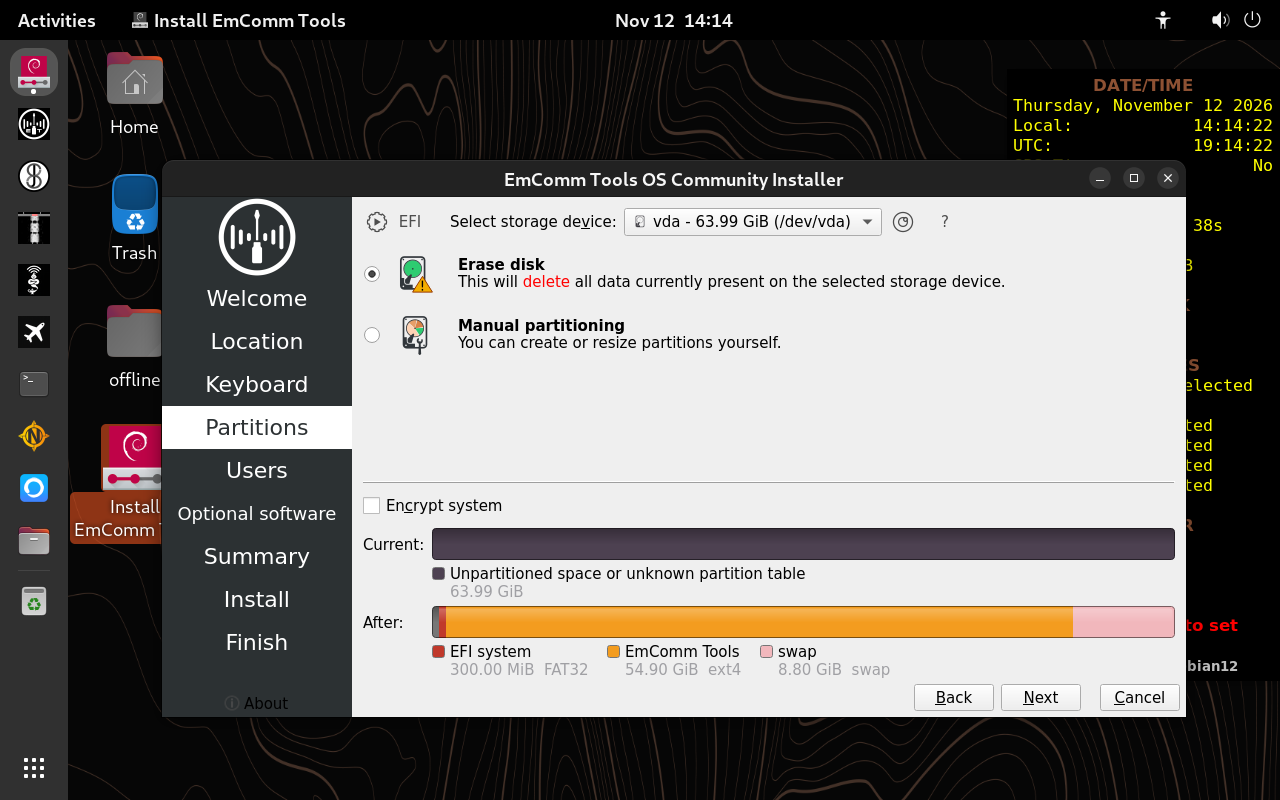
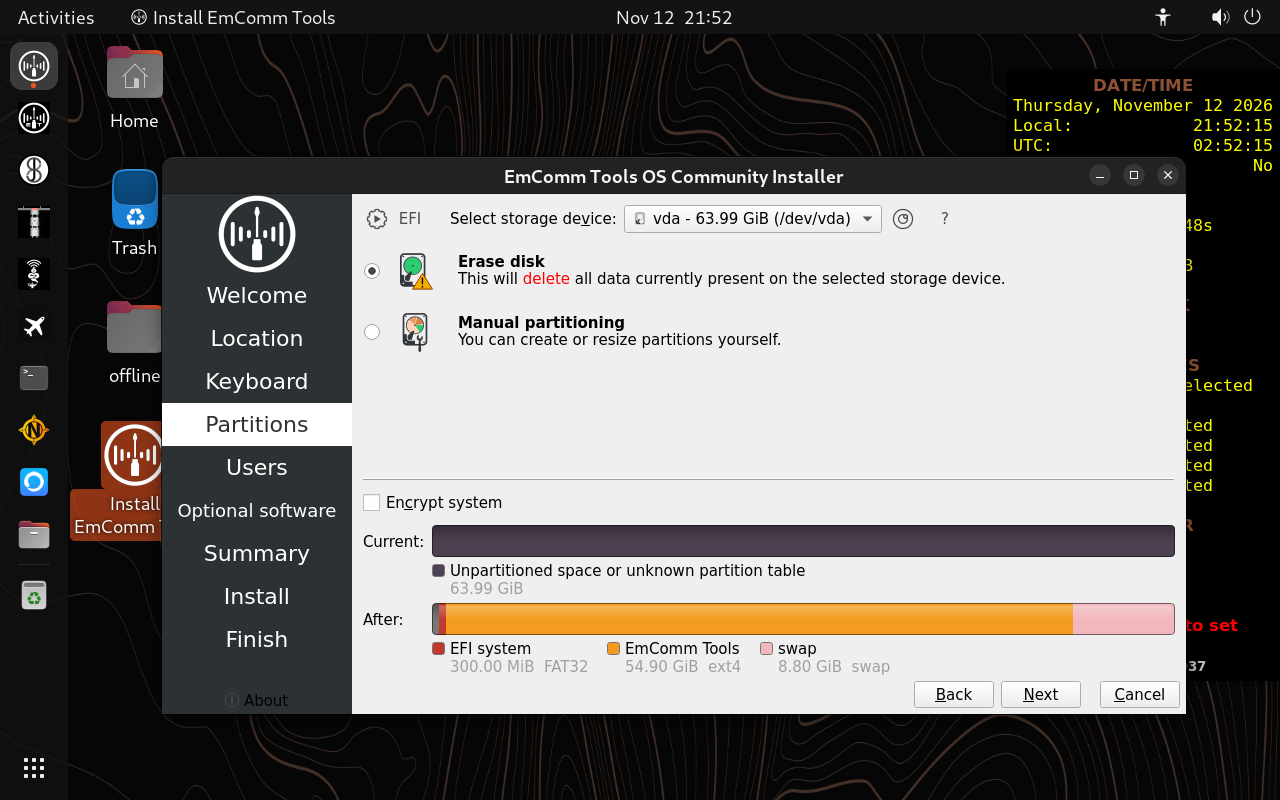
debian - Closer to r7: installer removed after install; Yaru top bar; cleanups
- Installer removes itself (calamares) and its live-only files from the
  installed system, as r7's Ubiquity did.
- scripts/install.sh not executable in the ISO's repository copy.
- Non-ISO install paths removed: configure-existing-user.sh, the
  interactive encryption install, ET_CRYPTO; configure-user.sh back to r7.
- Encryption tools: one script copy (repository copy), payload in
  /opt/emcomm-tools/add-ons/crypto.
- Yaru shell theme (top bar), as in r7; live installer launcher with ETC's
  logo; chrony uses Debian's NTP pool.
- VARA README and wine.txt: Cubic steps replaced by restoring a backup.
- Install guide screenshots retaken; docs and Verified updated.

diff --git a/CHANGES-OVERVIEW.md b/CHANGES-OVERVIEW.md
@@ -60,7 +60,7 @@ asks none, so each is handled differently now:
 | Wikipedia file (`ET_EXPERT`) | `download-wikipedia.sh` | No `.zim` files ship with the ISO; the Kiwix reader is installed. **Decision needed:** how users add `.zim` files after install, for example copying them in, or running `download-wikipedia.sh` (needs internet; it saves into `/etc/skel`) |
 | VARA/WINE notes (`ET_EXPERT`) | `install-wine.sh`, `wine.txt` | WINE, winetricks and the VARA add-on scripts (`~/add-ons/wine`) are in the ISO; VARA itself isn't. Users install it after install, with internet or by restoring a WINE backup made with `05-backup-wine-install.sh` (`cd ~ && tar -xzf etc-wine-backup-*.tar.gz`). `~/add-ons/wine/README.md` covers both |
 | xara modem | `install-xara.sh`, `scripts/xara.md` | Built in r7 only when the builder supplies the source tarball; not in this ISO (Rust is). **For the ETC developer to review:** suggested post-install scripting, so users build xara from their own source with `install-xara.sh` |
-| Encryption tools | `install-crypto.sh` | Installed without asking in r7 (GPA, PFTE, steghide, guides; gpg stays in the base install as in r7). Now asked by the installer's **Optional software** page (**Skip encryption tools** or **Install encryption tools**); not selected by default. The page (and `install.sh`'s prompt) says not to install them where encryption is illegal. VeraCrypt stays out, as in r7 (its install line is commented out there) |
+| Encryption tools | `install-crypto.sh` | Installed without asking in r7 (GPA, PFTE, steghide, guides; gpg stays in the base install as in r7). Now asked by the installer's **Optional software** page (**Skip encryption tools** or **Install encryption tools**); not selected by default. The page says not to install them where encryption is illegal. VeraCrypt stays out, as in r7 (its install line is commented out there) |
 
 ## Version parity with r7
 
@@ -99,8 +99,8 @@ Debian 12 install. To watch in hardware testing: VARA under WINE 8.0.
 ## Size/Scope of this migration
 
 Branch `feature/debian-live-iso` against `release/r7` at build37
-(`emcomm-tools-os-community-20261111-r7-build37`, merged in): **96 files,
-+1,741 / −330 lines** (not counting this document).
+(`emcomm-tools-os-community-20261111-r7-build37`, merged in): **99 files,
++1,644 / −380 lines** (not counting this document).
 
 It's less than it looks:
 
@@ -117,13 +117,13 @@ It's less than it looks:
 | # | Category | Files | Lines +/− | Why |
 |---|---|---|---|---|
 | 1 | Installer: Ubiquity → Calamares | 24 | +190 / −209 | Ubuntu's installer doesn't exist on Debian. The 8 slideshow images only moved. The 9 Ubiquity HTML slides were deleted, and the same 8 slides were ported to a Calamares `show.qml` and one shared slide layout, `EtcSlide.qml` (110 lines). |
-| 2 | Docs | 20 | +310 | Release notes; developer build guide; end-user install guide. |
-| 3 | New ISO build (live-build) | 17 | +716 | Replaces Cubic. All new files; nothing existing changed. |
-| 4 | Debian package and OS differences | 15 | +100 / −72 | A small edit in each script that named an Ubuntu package, version or URL. |
-| 5 | Encryption tools opt-in | 10 | +203 / −14 | Distribution requirement, not Debian's. `install-crypto.sh` is most of it. The guide files (`gpg-cheatsheet.md`, `steghide.md`, `steghide.jpg`) were moved unchanged, so only users who choose the tools get them. |
-| 6 | Desktop parity with r7 | 6 | +77 / −20 | Ubuntu builds in its dock, theme and tray icons; Debian needs them added. GNOME Software's update checks are off, as r7 removed Ubuntu's update notifier; apt's daily timers stay on, as in r7. |
-| 7 | Users | 2 | +92 | Users created by the installer get ETC's `et-data` group as primary. |
-| 8 | Build mode | 2 | +53 / −15 | `install.sh` asks nothing during the image build. |
+| 2 | Docs | 20 | +315 | Release notes; developer build guide; end-user install guide. |
+| 3 | New ISO build (live-build) | 19 | +756 | Replaces Cubic. All new files; nothing existing changed. |
+| 4 | Debian package and OS differences | 17 | +117 / −124 | A small edit in each script that named an Ubuntu package, version or URL. |
+| 5 | Encryption tools opt-in | 10 | +125 / −14 | Distribution requirement, not Debian's. `install-crypto.sh` is most of it. The guide files (`gpg-cheatsheet.md`, `steghide.md`, `steghide.jpg`) were moved unchanged, so only users who choose the tools get them. |
+| 6 | Desktop parity with r7 | 6 | +81 / −20 | Ubuntu builds in its dock, theme and tray icons; Debian needs them added. GNOME Software's update checks are off, as r7 removed Ubuntu's update notifier; apt's daily timers stay on, as in r7. |
+| 7 | Users | 1 | +29 | Users created by the installer get ETC's `et-data` group as primary. |
+| 8 | Build mode | 2 | +31 / −13 | `install.sh` asks nothing during the image build. |
 
 ## Beyond the minimum
 
@@ -133,15 +133,13 @@ migration, at the cost of r7's look and some live-session usability:
 
 | Change | Why it's here | Could drop? |
 |---|---|---|
-| GNOME parity: Yaru theme, dock, desktop icons, tray icons, window buttons | Look and version parity with r7 | Yes, if r7's look isn't required |
+| GNOME parity: Yaru theme (including the top bar), dock, desktop icons, tray icons, window buttons | Look and version parity with r7 | Yes, if r7's look isn't required |
 | Calamares slideshow ported from Ubiquity (`show.qml`, `EtcSlide.qml`) | Branding parity | Yes; Calamares works without it |
 | Installer stylesheet (`stylesheet.qss`): the encryption choices drawn as buttons | Encryption is legally restricted in some jurisdictions, so installing the tools must be a clear, deliberate choice | Yes; the page works without it |
 | GRUB menus branded: ETC background on the live ISO's boot menu; "EmComm Tools" and the same background on installed systems | Branding parity | Yes; the stock Debian menus work |
 | ETC boot splash watermark: Debian's logo diverted (Debian's plymouth puts its own in) | Branding parity | Yes; Debian's logo shows instead |
-| Live-session polish: installer icon shown correctly, installer starts without a password, ETC dock in the live session, callsign/grid/Winlink password saved in the live session carried into the installed system | Usability of the live session | Yes; the ISO works without them |
+| Live-session polish: installer launcher with ETC's name and logo, shown correctly, installer starts without a password, ETC dock in the live session, callsign/grid/Winlink password saved in the live session carried into the installed system | Usability of the live session | Yes; the ISO works without them |
 | `et-fix-primary-group` (installer step) | ETC shares files through the `et-data` group, and Calamares can't set a primary group | Only by changing ETC's group design |
-| `configure-existing-user.sh` | Only for running `install.sh` on an existing Debian system; the ISO doesn't use it | Yes, if only the ISO is supported |
-| `configure-user.sh` doesn't fail if `et-data` exists | Lets `install.sh` run twice on the same system | Yes; the ISO build runs it once |
 | GNOME Software update checks off: its settings and login service | r7 removed Ubuntu's update-notifier | No (requested) |
 | `build.sh` keeps live-build's download cache | Faster rebuilds | Yes |
 | `tests/validate-install.sh` | One command to check an installed system or the live session before publishing; caught real problems in testing | Yes; the build guide's checklist and r7's `run-test-suite.sh` remain |
@@ -162,12 +160,15 @@ were on real hardware:
 | UEFI, Secure Boot on: install with encryption tools | Tools and guides installed from the ISO |
 | UEFI, Secure Boot on: install without encryption tools | No tools, guides or marker; add-on still available |
 | UEFI, Secure Boot on: installed system | Boots; GRUB menu shows "EmComm Tools GNU/Linux" with the ETC background; ETC splash, dock, wallpaper; `et-data` primary group; SSH server running; apt sources include `contrib` and `non-free`; update checks off; ETC test suite passes except xara (no source package) |
-| BIOS (no UEFI): live boot and install | Boots and installs; BIOS GRUB installed from the ISO (tested before GRUB branding was added) |
+| BIOS (no UEFI): live boot and install | Boots and installs; BIOS GRUB installed from the ISO; re-tested after GRUB branding was added |
 | UEFI, Secure Boot on: live settings carry-over | Callsign and grid saved in the live session are in the installed user's `user.json`, with the `first-login-complete` marker, owned by the new user; setup doesn't open at first login. Passed in the ISO built from 180a991. The same ISO failed the **Cancel** case: Cancel also writes the marker, so the default settings were copied and setup didn't open. Fixed by also checking that `user.json` differs from the `/etc/skel` default; the check passed on the installed system, the fix is in the ISO built from 22beb66 |
 | UEFI, Secure Boot on: install after the audit fixes, encryption tools selected | `validate-install.sh`: 94 passed, 0 failed (warnings: setup not yet run, installer left installed). Release name `ETC_R7_BUILD37` in `/etc/lsb-release` and the conky panel; GPA, PFTE and steghide installed, no VeraCrypt; gpg present (base install, as in r7); apt's daily timers on; one read-only repository copy; slideshow (`EtcSlide.qml`) shows and advances |
+| UEFI, Secure Boot on: install of the final build (encryption tools selected) | Installer removed afterwards (no `calamares`, no `/etc/calamares`, no live helpers); `scripts/install.sh` in the repository copy not executable; encryption tools installed from the repository copy; chrony uses Debian's pool; live launcher shows ETC's logo; Yaru top bar |
 | Ventoy 1.1.10, UEFI, Secure Boot off | ISO boots from a Ventoy stick to the ETC boot menu and live desktop |
 | Laptop, live session (ISO from 4353008, UEFI, Secure Boot off), GPS, DigiRig Mobile and SDR connected | `validate-install.sh`: 92 passed, 0 failed. et-api starts once with no restart; et-predict and et-aircraft work without restarting it; aircraft received by the SDR are identified from et-api's FAA data (US-registered; others, such as Canadian, have no entry). The et-api hang was reproduced on an earlier ISO, before the NWS file was included. Repeated with the ISO after the audit fixes (18fa448): 90 passed, 0 failed, release `ETC_R7_BUILD37` |
 | Laptop, installed from the ISO after the audit fixes (UEFI, Secure Boot off), encryption tools selected, GPS connected | `validate-install.sh`: 96 passed, 0 failed (warning: installer left installed). Callsign and grid saved in the live session carried over, setup didn't open; et-api started once at first login with the GPS (no restart); GPA, PFTE, steghide installed, no VeraCrypt; GRUB menu shows "EmComm Tools GNU/Linux" with the ETC background; SSH host keys, apt `contrib`/`non-free` |
+| Laptop, installed system, on the air | CAT control and `et-mode`, JS8Call, WSJT-X, Reticulum blueprints and MeshChat, with the DigiRig |
+| Laptop, offline installs | Several installs with the network off, enabled only afterwards |
 | Laptop, live session, DigiRig Lite | JS8Call, WSJT-X and Winlink over ARDOP use the DigiRig for audio input and output |
 
 ## Files in each category
@@ -197,18 +198,20 @@ were on real hardware:
 | File | Purpose |
 |---|---|
 | `live-build/build.sh` | The one build command |
-| `live-build/config/hooks/normal/0900-emcomm-tools.hook.chroot` | Runs `install.sh` inside the image (before Debian's cleanup hooks); adds et-api's NWS forecast zone data file; keeps a read-only repository copy in `/opt/emcomm-tools-os-community`; removes build files; ETC launchers in the live dock |
+| `live-build/config/hooks/normal/0900-emcomm-tools.hook.chroot` | Runs `install.sh` inside the image (before Debian's cleanup hooks); adds et-api's NWS forecast zone data file; keeps a read-only repository copy in `/opt/emcomm-tools-os-community`; removes build files; the live installer launcher's ETC name and logo; ETC launchers in the live dock; `install.sh` in that copy is not executable, to avoid an accidental reinstall |
 | `live-build/config/hooks/normal/0910-grub-pc-pool.hook.binary` | Adds BIOS GRUB to the ISO's package pool (it conflicts with UEFI GRUB, so it can't go in the package list) |
 | `tests/validate-install.sh` | New: checks an installed system (or the live session) and runs ETC's app tests; PASS/FAIL/WARN/SKIP summary |
 | `live-build/config/package-lists/emcomm-tools.list.chroot` | GNOME and Calamares in the image |
 | `live-build/config/package-lists/installer.list.binary` | GRUB packages carried in the ISO, so installs work offline |
-| `live-build/config/includes.chroot/etc/calamares/settings.conf` | Installer steps (Debian's, plus ETC's five) |
+| `live-build/config/includes.chroot/etc/calamares/settings.conf` | Installer steps (Debian's, plus ETC's six) |
+| `live-build/config/includes.chroot/etc/calamares/modules/packages.conf` | Debian's list of packages the installer removes from the new system, plus `calamares` itself, so "Install System" doesn't stay, as r7's installer removed itself |
 | `live-build/config/includes.chroot/etc/calamares/modules/users.conf` | Groups for new users |
 | `live-build/config/includes.chroot/etc/calamares/modules/packagechooser-crypto.conf` | Optional software page: **Skip encryption tools** (default) or **Install encryption tools** |
 | `live-build/config/includes.chroot/etc/calamares/modules/contextualprocess-crypto.conf` | Installs the encryption tools offline if selected |
 | `live-build/config/includes.chroot/etc/calamares/modules/shellprocess-etc-setup.conf` | ETC setup: primary group, SSH host keys |
 | `live-build/config/includes.chroot/etc/calamares/modules/shellprocess-etc-live-settings.conf` | Carries the callsign, grid and Winlink password saved in the live session to the new user |
 | `live-build/config/includes.chroot/etc/calamares/modules/shellprocess-etc-sources.conf` | apt sources: Debian's installer drops `contrib` and `non-free`; this puts them back |
+| `live-build/config/includes.chroot/etc/calamares/modules/shellprocess-etc-cleanup.conf` | Last step: removes `/etc/calamares` and ETC's live-session helpers from the new system |
 | `live-build/config/includes.chroot/usr/local/sbin/et-carry-live-settings` | Copies the callsign, grid and Winlink password saved in the live session to the new user |
 | `live-build/config/includes.chroot/usr/local/bin/et-trust-live-installer` | Live session: marks the installer icon as trusted on GNOME |
 | `live-build/config/includes.chroot/etc/xdg/autostart/et-trust-live-installer.desktop` | Live session: runs `et-trust-live-installer` at login |
@@ -227,16 +230,17 @@ were on real hardware:
 | `scripts/install-js8call.sh`, `install-wsjtx.sh` | Hold ETC's builds; Debian's newer-looking `js8call` would replace them and conflict with ETC's WSJT-X |
 | `scripts/remove-packages.sh` | Also purges Firefox ESR (r7 had no Firefox) and GNOME's first-login wizard; keeps GNOME (on Debian, purging LibreOffice would remove it) |
 | `scripts/install-dev-tools.sh` | Cubic PPA removed |
+| `overlay/etc/chrony/chrony.conf` | NTP servers: Debian's pool (`2.debian.pool.ntp.org`, Debian 12's default) instead of Ubuntu's; ETC's GPS time source unchanged |
+| `scripts/wine.txt`, `overlay/etc/skel/add-ons/wine/README.md` | Cubic steps for baking a WINE backup into the image replaced by restoring it in the home folder after install (ISOs don't include WINE installations) |
 | `scripts/install-ubuntu-image-tools-only.sh` | Deleted (Cubic tooling) |
 | `scripts/install-release.sh` | New: writes the release name to `/etc/lsb-release` as `DISTRIB_DESCRIPTION`, where Cubic put it in r7, so r7's `et-system-info` reads it unchanged. Name like r7's: `ETC_R7_BUILD37`, from the last ETC tag |
-| `scripts/configure-user.sh` | Don't fail if `et-data` already exists |
 | `tests/test-java.sh`, `test-python.sh` | Expect Java 17 and Python 3 |
 
 ### 5. Encryption tools opt-in
 
 | File | Change |
 |---|---|
-| `scripts/install-crypto.sh` | New: installs GPA, PFTE, steghide and guides; or prepares them for the installer and installs them offline |
+| `scripts/install-crypto.sh` | New: prepares GPA, PFTE, steghide and the guides during the image build, and installs them offline when selected in the installer (or later by hand) |
 | `scripts/crypto-docs/gpg-cheatsheet.md`, `steghide.md`, `steghide.jpg` | Moved unchanged from `overlay/etc/skel/Desktop/offline/crypto/` (which every user got), so they're only installed with the tools |
 | `scripts/install-offline-lib-crypto.json`, `install-offline-lib.json` | AmRRON key and GPG guide moved to the crypto list |
 | `scripts/install-offline-lib.sh` | Takes a file list and destination |
@@ -247,7 +251,7 @@ were on real hardware:
 
 | File | Change |
 |---|---|
-| `overlay/usr/share/glib-2.0/schemas/90_emcomm-tools.gschema.override` | Renamed from `90_ubuntu-settings` and edited: dock, extensions, window buttons, dark-style wallpaper; GNOME Software's update checks off |
+| `overlay/usr/share/glib-2.0/schemas/90_emcomm-tools.gschema.override` | Renamed from `90_ubuntu-settings` and edited: dock, extensions, Yaru shell theme (top bar, as Ubuntu's session has built in), window buttons, dark-style wallpaper; GNOME Software's update checks off |
 | `scripts/configure-gnome.sh` | Install Yaru theme and the dock, desktop-icon and tray-icon extensions |
 | `scripts/install-branding.sh` | Boot splash and wallpaper on Debian; ETC watermark instead of Debian's logo (Debian's plymouth swaps it in); GRUB menu name and background |
 | `logos/emcomm-tools-boot-800x600.png`, `-640x480.png` | New: GRUB menu background for the live ISO (via `live-build/build.sh`) and installed systems |
@@ -258,11 +262,10 @@ were on real hardware:
 | File | Change |
 |---|---|
 | `overlay/opt/emcomm-tools/bin/et-fix-primary-group` | New: `et-data` as primary group for users the installer creates |
-| `scripts/configure-existing-user.sh` | New: when `install.sh` runs on an existing Debian system (not the ISO), makes `et-data` the user's primary group, replaces their `.bashrc`, `.bash_profile` and `.inputrc` (backed up as `*.pre-emcomm-tools`) and gives their home folder the `et-data` group |
 
 ### 8. Build mode
 
 | File | Change |
 |---|---|
-| `scripts/install.sh` | `ET_BUILD=1`: no prompts; only the world map; encryption tools prepared, not asked. Also: runs `install-release.sh`; GPA and PFTE moved into the encryption add-on; `ET_CRYPTO=yes\|no` answers the encryption prompt (skipped with no terminal); outside the ISO, runs `configure-existing-user.sh` last |
+| `scripts/install.sh` | `ET_BUILD=1`: no prompts; only the world map. Also: runs `install-release.sh`; GPA and PFTE moved into the encryption tools, which are prepared for the installer instead of installed |
 | `scripts/download-et-maps.sh` | Country can be passed instead of asked |

diff --git a/ISO-BUILD-PLAN.md b/ISO-BUILD-PLAN.md
@@ -71,11 +71,11 @@ it asks which file to download, and the build runs without prompts.
 |---|---|
 | Debian 12, GNOME, EmComm Tools | Installed |
 | Maps | The global map (80 MB). How users add other maps after install is still to be decided (see [CHANGES-OVERVIEW.md](CHANGES-OVERVIEW.md)) |
-| Encryption tools (GPA, PFTE, steghide, guides) | Carried, not installed. The person installing chooses them on the installer's **Optional software** page (not selected by default); they install from the ISO, no internet needed. They can also be added later from `/opt/emcomm-tools/add-ons/crypto` |
+| Encryption tools (GPA, PFTE, steghide, guides) | Carried, not installed. The person installing chooses them on the installer's **Optional software** page (not selected by default); they install from the ISO, no internet needed. They can also be added later, offline: `sudo /opt/emcomm-tools-os-community/scripts/install-crypto.sh --offline` |
 | GRUB for UEFI and BIOS | Carried, so installs work offline |
 | xara modem | Not included (its source was withdrawn; a `xara-*.tar.gz` in `scripts/` isn't copied). Rust is installed. How users add xara after install is still to be decided (see [CHANGES-OVERVIEW.md](CHANGES-OVERVIEW.md)) |
 | Live session login | Debian's defaults: user `user`, password `live`. Only in the live session; installed systems have only the account created in the installer |
-| This repository | A read-only copy in `/opt/emcomm-tools-os-community` (about 12 MB, no git history): ETC's scripts and test suite, matching the ISO |
+| This repository | A read-only copy in `/opt/emcomm-tools-os-community` (about 12 MB, no git history): ETC's scripts and test suite, matching the ISO. `scripts/install.sh` there isn't executable, so it isn't run over an installed system by accident (`sudo bash install.sh` runs it on purpose) |
 | Accounts, home folders, SSH host keys, machine-id, logs, build files | None. Each installed system gets its own SSH host keys and machine-id |
 
 ## How the build works
@@ -104,8 +104,9 @@ The installer settings are in
 `live-build/config/includes.chroot/etc/calamares/`: Debian's settings with
 ETC's branding, the Optional software page, and ETC steps that give new users
 `et-data` as primary group, create SSH host keys, carry over the callsign and
-grid saved in the live session, and restore `contrib`/`non-free` in apt
-sources.
+grid saved in the live session, restore `contrib`/`non-free` in apt
+sources, and remove the installer and the live-session helpers from the new
+system (as r7's installer removed itself).
 
 ## Test before publishing
 

diff --git a/overlay/etc/skel/add-ons/wine/README.md b/overlay/etc/skel/add-ons/wine/README.md
@@ -23,8 +23,8 @@ in this directory as your normal user (do not use 'sudo').
 
     ./04-run-regedit.sh
 
-5. If you want to include your WINE installation in a future EmComm Tools
-   Community image build, run the following to make a backup of your WINE
+5. If you want to restore your WINE installation on another ETC system (or
+   after reinstalling), run the following to make a backup of your WINE
    installation now.
 
     ./05-backup-wine-install.sh
@@ -32,24 +32,19 @@ in this directory as your normal user (do not use 'sudo').
 It is important that you do not run any of the VARA programs until after
 the backup is run in step 5.
 
-## Including VARA in an ETC ISO image
+## Restoring VARA on another ETC system
 
-If you want to include VARA in a future EmComm Tools Community image build,
-perform the following in Cubic after the main install script is finished.
+ETC ISOs don't include a WINE installation. To restore the backup made in
+step 5 on another ETC system (or after reinstalling):
 
-1. Change into the `/etc/skel` directory.
+1. Copy the backup file (`etc-wine-backup-HOST-YYYYMMDD.tar.gz`) to the system,
+   for example from a USB stick.
 
-2. Copy the WINE backup file created in step 5 using the file copy option
-   in Cubic (i.e. `etc-wine-backup-HOST-YYYYMMDD.tar.gz`).
-
-3. Unpack the backup file. This will create `/etc/skel/.wine32`.
+2. Unpack it in your home folder. This creates `~/.wine32`.
 
 ```
-tar -xzf etc-wine-backup-*
+cd ~ && tar -xzf /path/to/etc-wine-backup-*.tar.gz
 ```
 
-4. Delete the backup file on the Cubic session to save on space.
-
-```
-rm etc-wine-backup-*
-```
+The backup can include your VARA registration, so don't add it to an ISO you
+share with others.

diff --git a/RELEASES.md b/RELEASES.md
@@ -9,6 +9,10 @@
   Ubiquity)
 * Encryption tools (GPA, PFTE, steghide, guides) are opt-in: an
   unchecked "Optional software" page in the installer, installed offline
+* The installer removes itself from the installed system, as in r7
+* et-api's NWS forecast zone data is included: et-api no longer fails at first
+  start (with a GPS connected it used to hang until restarted)
+* Yaru top bar, as in r7; time servers are Debian's NTP pool
 * OpenJDK 20 replaced by OpenJDK 17; Python 2 removed (mbutil runs on Python 3)
 
 ## 2026.11.26.R7 (7.0.0) Release Notes
